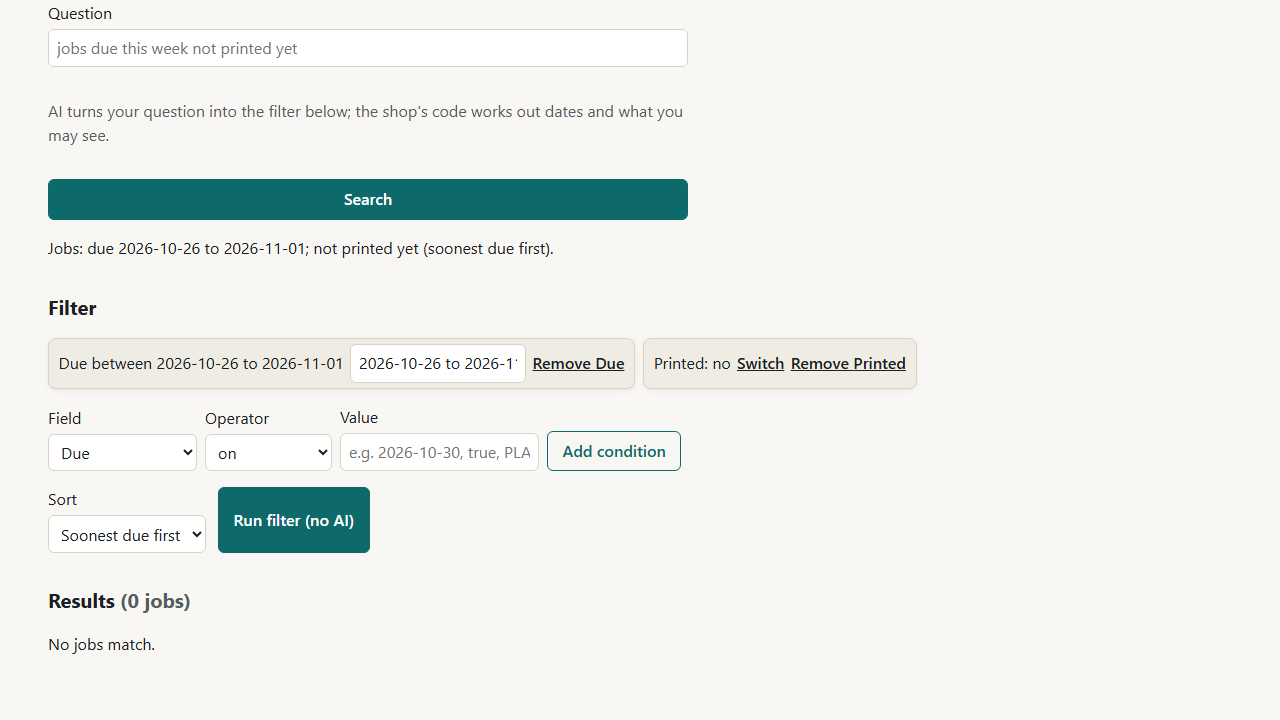
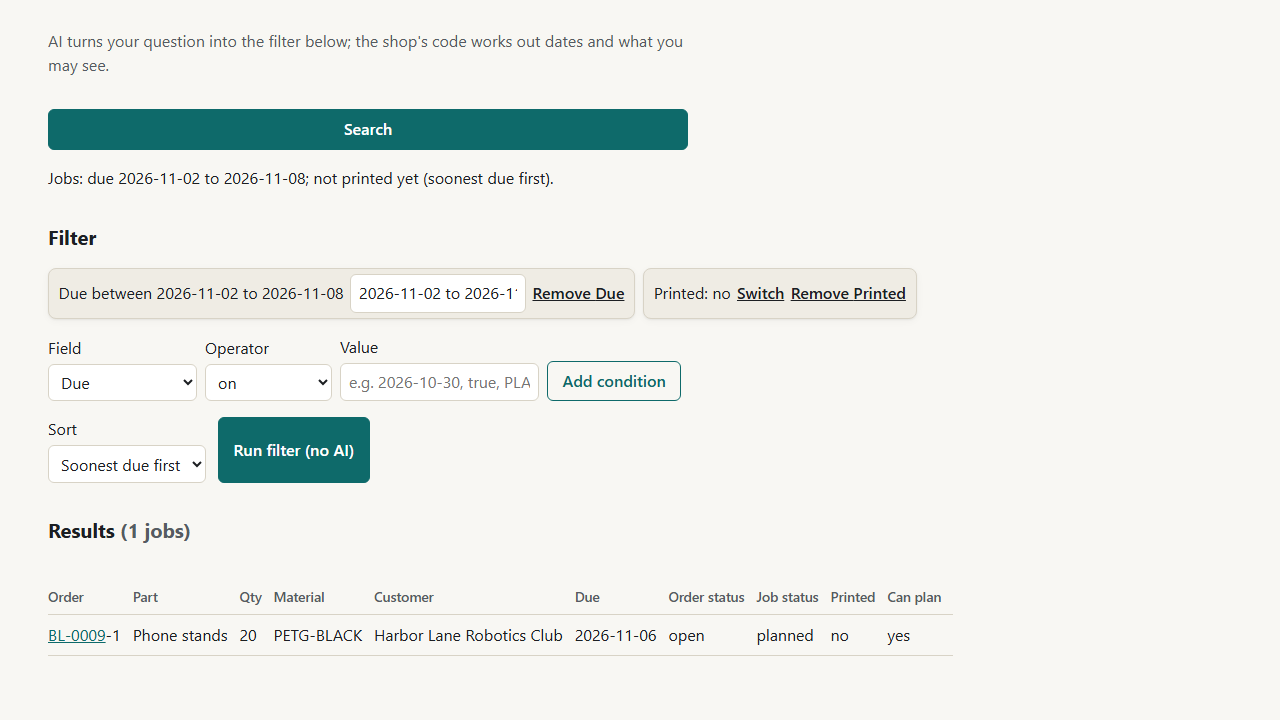
Demo video re-recorded with Materials and Dispatch scenes (replies recorded once, replayed); screenshots refreshed; README video note; self-test before and after times in D181

diff --git a/docs/DECISIONS.md b/docs/DECISIONS.md
@@ -372,4 +372,4 @@ No hard-rule breaks in the guard; the gaps were around it: timed-out starts, the
 |---|---|---|---|
 | D179 | **The hosted demo's shop clock is pinned inside a shift** (`DEMO_CLOCK = "Mon 10:00"`: that weekday and time of the current shop week), shown on every page as "Demo time". Only the shop's clock is pinned (planning, disruptions, queues, dispatch, the watcher, the nightly reset's plan); signing in and record timestamps keep the real clock. The guard and the shift rules are unchanged. Demo mode brings this clock unless DEMO_CLOCK says otherwise (Render did not take it from render.yaml). | The user asked for dispatch to work at any real hour on the demo. Pinning every clock would have made demo sign-ins never expire. | A clock that ticks from Monday 10:00: it would leave the shift after seven hours and go back on every restart of the free engine. |
 | D180 | **Polled times come from the simulated clock** for simulated machines (GRBL and the Formlabs Local API report none): the watcher asks the simulator how long the job ran, not the shop clock, which is pinned in the demo. Still labelled "polled". | Under a pinned clock, elapsed shop time would be zero. | Recording no time for those machines. |
-| D181 | **The gate self-test runs its mutations fail-fast** (`GATE_FAIL_FAST=1`: pytest `-x`, Vitest `--bail=1`, Playwright `--max-failures=1`); the baseline still runs the full gate. A mutation must still fail at its expected step, which a runner that stops at the first failure still does, so nothing it proves is weaker. Fail-fast alone left engine-test mutations at 2.5 to 4.5 minutes (the catching test came late), so each such mutation also names the test files that should catch it and only those run: a subset failing proves the whole suite fails, so a catch is never false, and a wrong subset shows up as a miss. Measured: before, 1 h 40 min for the baseline and 32 mutations (from the log's start and end times); after: SELFTEST_AFTER. | The user asked for a faster self-test that is not weaker. | Running mutations in parallel: each needs its own copy, database and ports; more machinery for the same result. |
+| D181 | **The gate self-test runs its mutations fail-fast** (`GATE_FAIL_FAST=1`: pytest `-x`, Vitest `--bail=1`, Playwright `--max-failures=1`); the baseline still runs the full gate. A mutation must still fail at its expected step, which a runner that stops at the first failure still does, so nothing it proves is weaker. Fail-fast alone left engine-test mutations at 2.5 to 4.5 minutes (the catching test came late), so each such mutation also names the test files that should catch it and only those run: a subset failing proves the whole suite fails, so a catch is never false, and a wrong subset shows up as a miss. Measured: before, 1 h 40 min for the baseline and 32 mutations (from the log's start and end times); after: 22 min, all 32 still caught at their expected steps (engine-test mutations about 25 s each, the browser-test one about 4.5 min, the full baseline about 6). | The user asked for a faster self-test that is not weaker. | Running mutations in parallel: each needs its own copy, database and ports; more machinery for the same result. |

diff --git a/README.md b/README.md
@@ -161,8 +161,10 @@ The dispatch eval: 36 scenarios written blind from the rules (21 dev, 15 held ou
 |---|---|---|
 | ![Quote](docs/screenshots/quote.png) | ![Disruption review](docs/screenshots/disruption-review.png) | ![Search](docs/screenshots/search.png) |
 
-Regenerate with `make screenshots`. A 3-minute walkthrough video, with captions, is made by `make demo-video`
-(it replays model replies from a recorded run, and says so).
+Regenerate with `make screenshots`. A 4-minute walkthrough video, with captions, is made by `make demo-video`
+(`docs/video/brimline-demo.mp4`): quote, plan, materials, a dispatch to a simulated machine, a disruption and
+search. It replays model replies from a recorded run and says so, and its opening card says the machines are
+simulated.
 
 ## Run it
 
